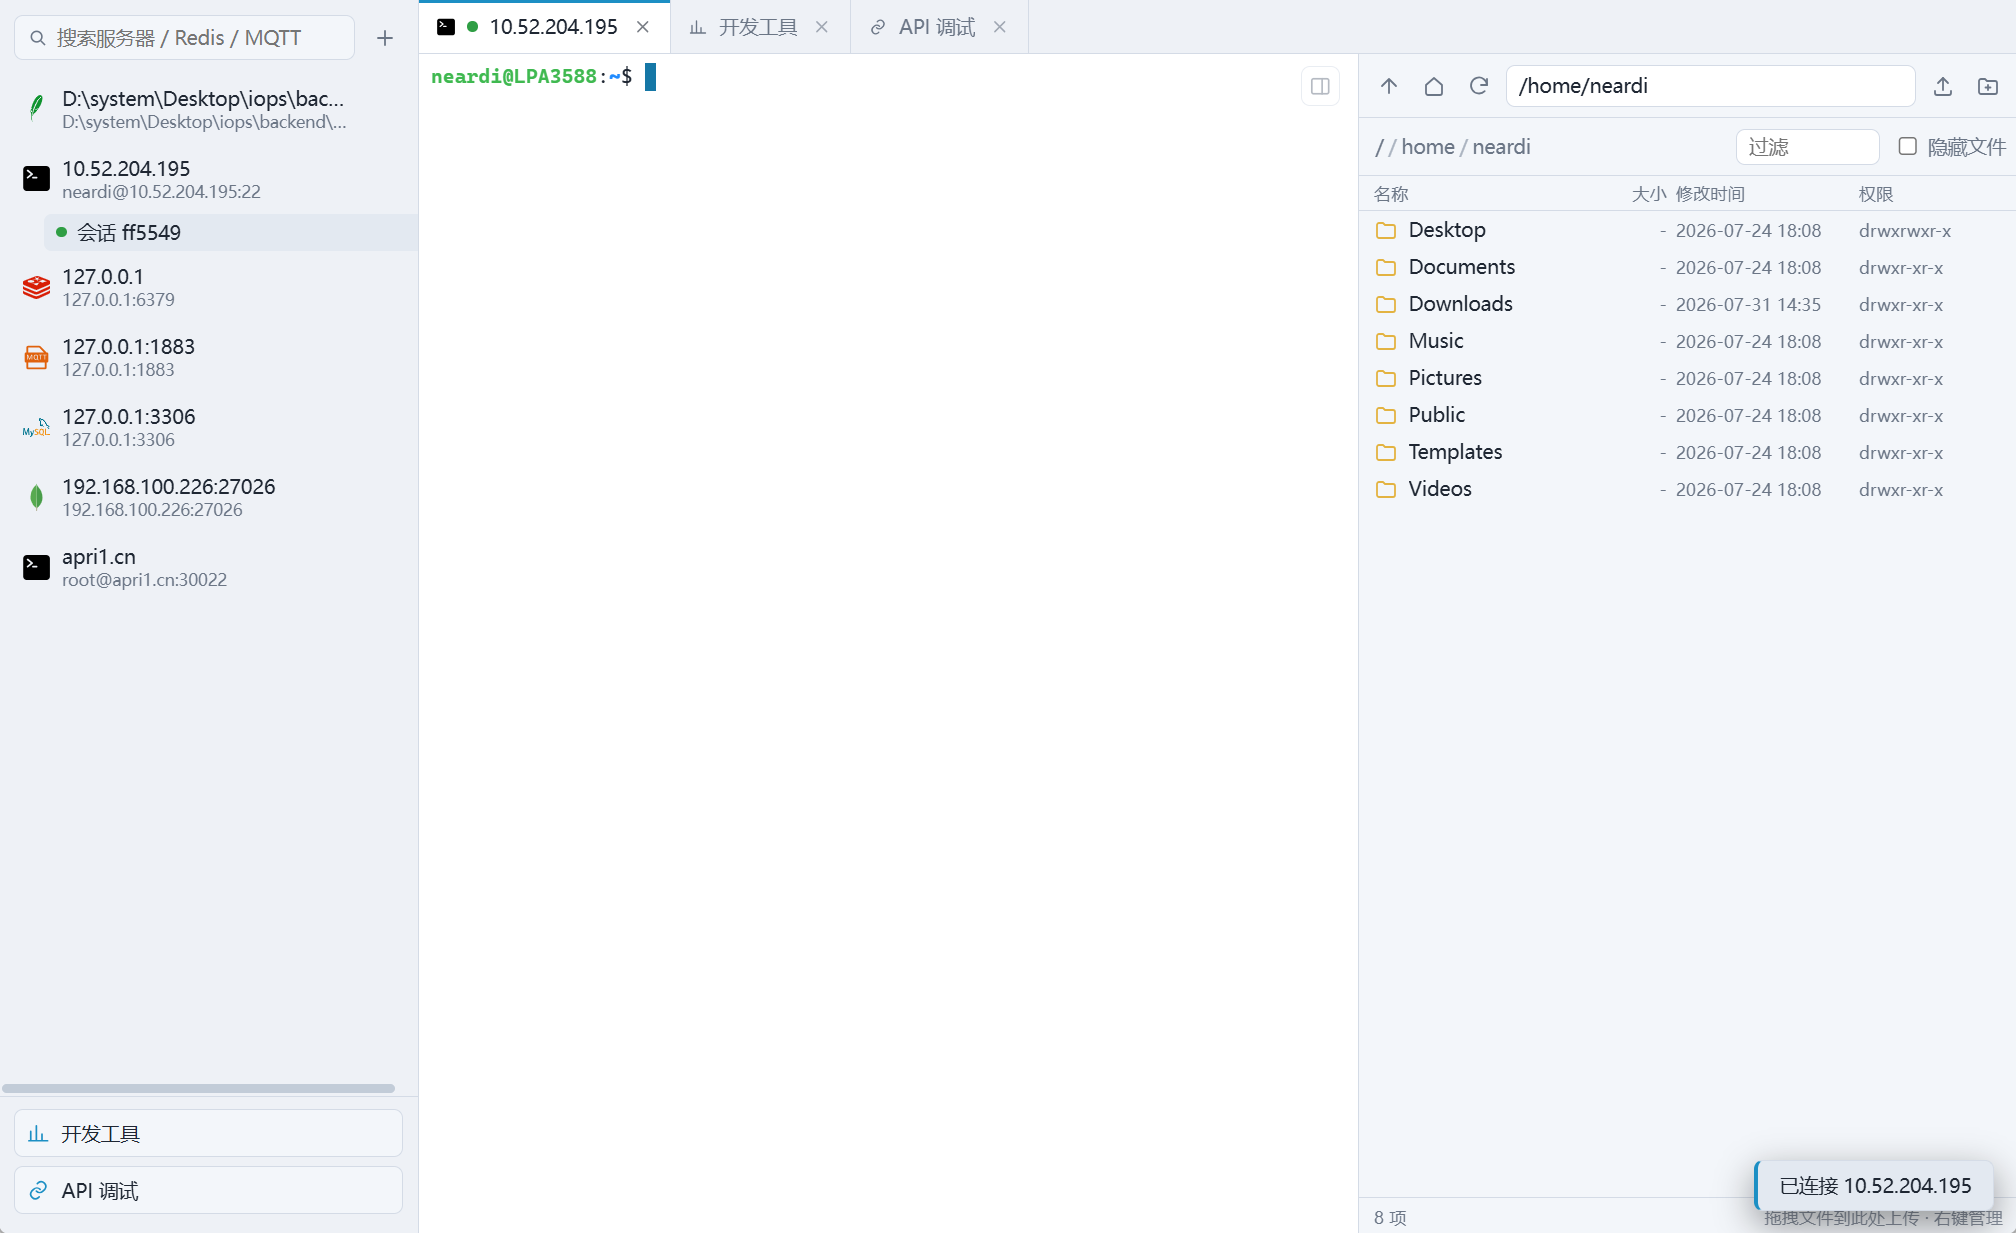
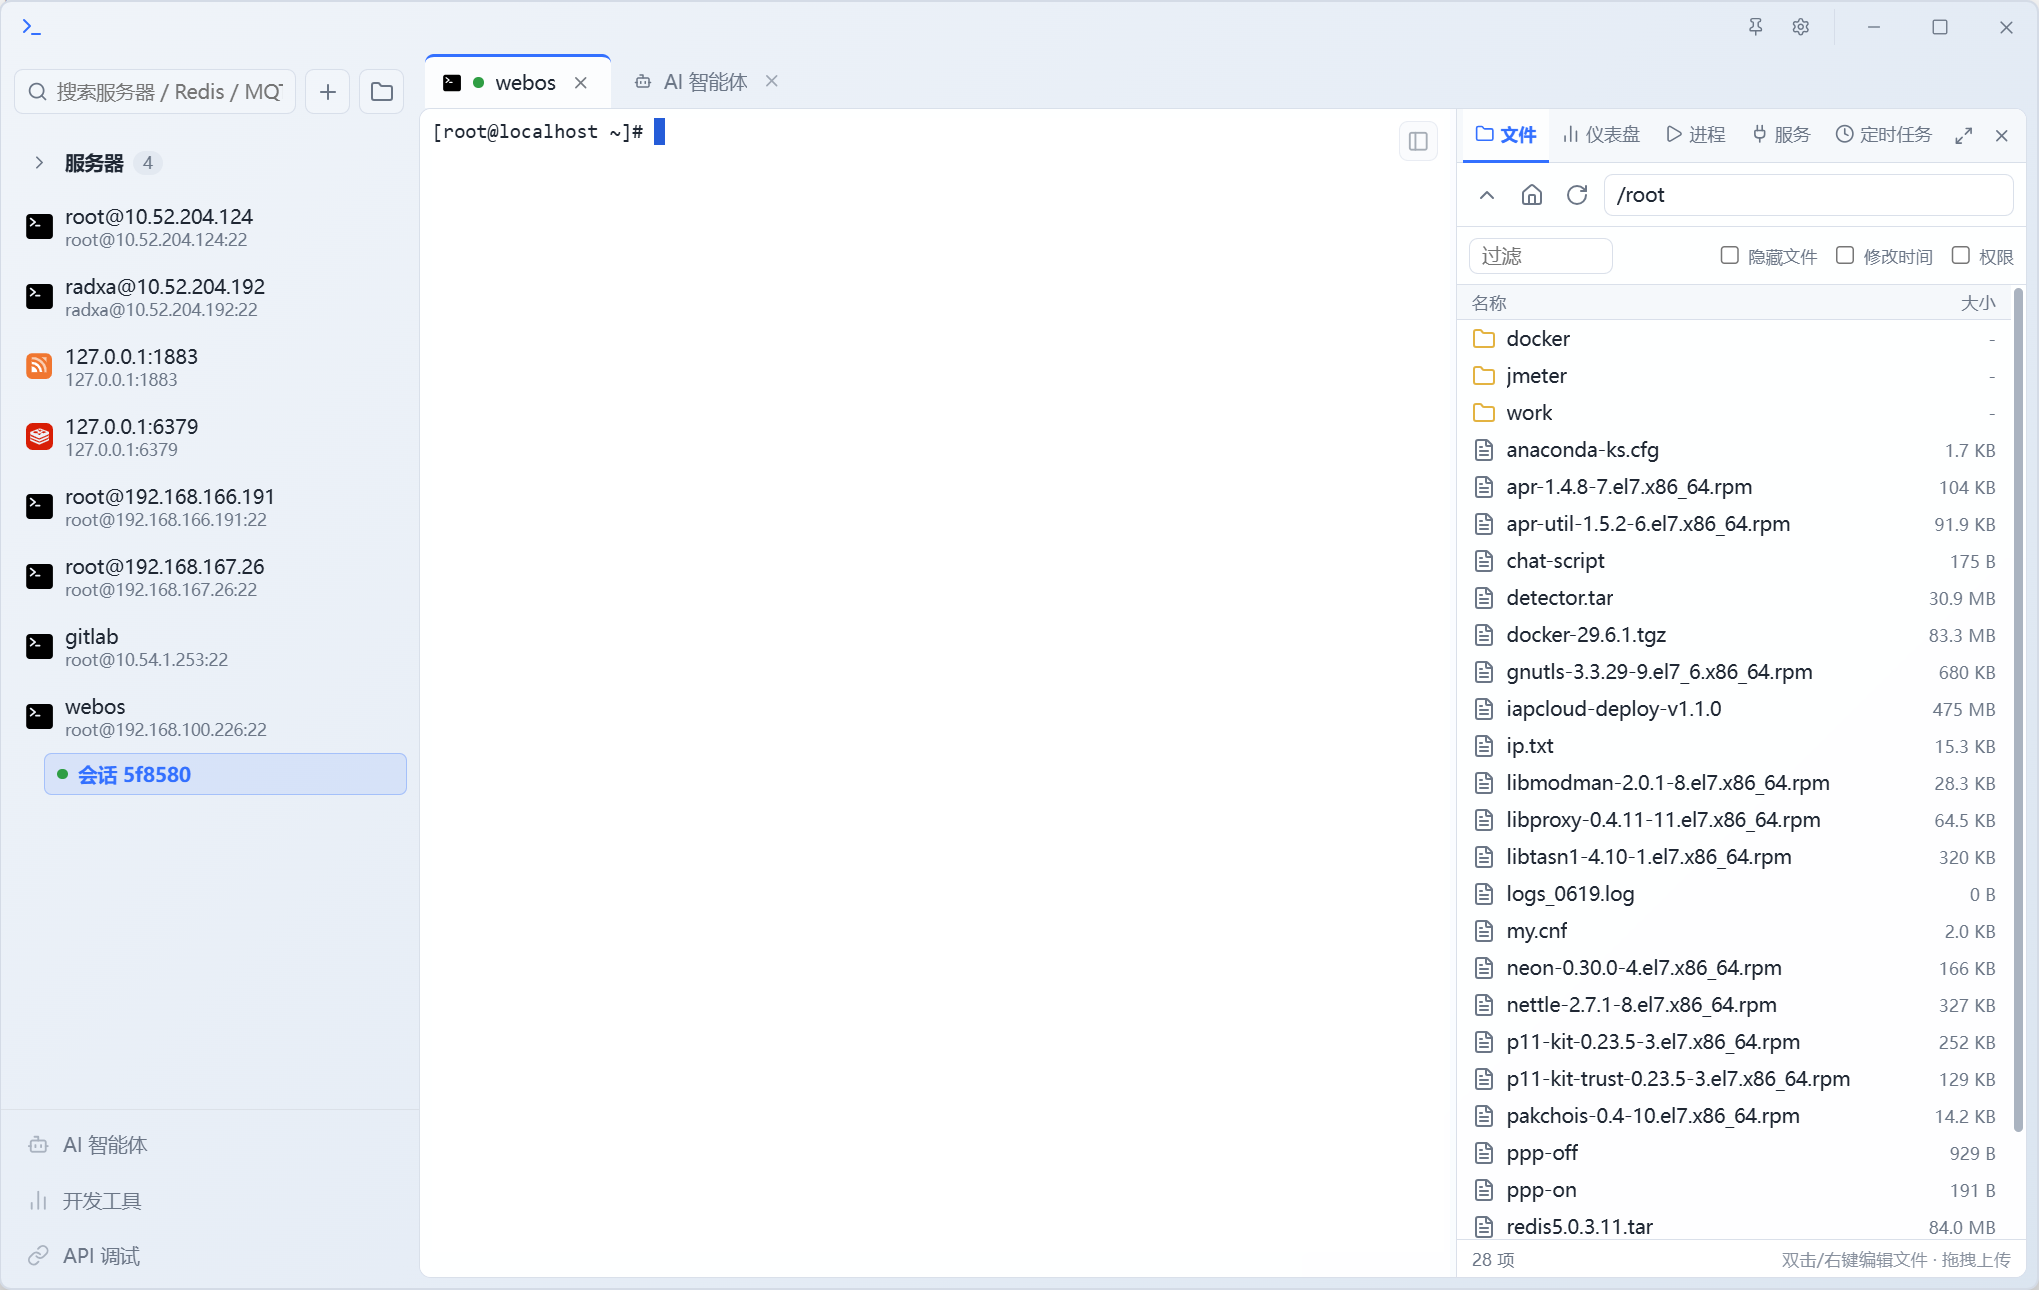
docs: update README with MySQL preview image and AI agent feature architecture

diff --git a/frontend/src/pages/setting/AiAgentTab.tsx b/frontend/src/pages/setting/AiAgentTab.tsx
@@ -174,7 +174,7 @@ export default function AiAgentTab({
 
                 <div className={s.toggleRow}>
                     <div className={s.toggleInfo}>
-                        <span className={s.toggleTitle}>开启联网搜索 (Web Search)</span>
+                        <span className={s.toggleTitle}>开启联网搜索</span>
                         <span className={s.toggleSub}>启用后 AI Agent 可自动调用搜索引擎获取实时网页信息与最新技术文档</span>
                     </div>
                     <label className={s.switch}>
@@ -190,7 +190,7 @@ export default function AiAgentTab({
                 <div className={s.toggleRow}>
                     <div className={s.toggleInfo}>
                         <span className={s.toggleTitle}>开启深度思考模式 (Thinking / Reasoning)</span>
-                        <span className={s.toggleSub}>启用后在 ExtraFields 中透传 {`{"thinking": {"type": "enabled"}}`}（适用于 Claude / DeepSeek R1 / 硅基流动等）</span>
+                        <span className={s.toggleSub}>控制思考模式与非思考模式的转换</span>
                     </div>
                     <label className={s.switch}>
                         <input
@@ -202,19 +202,21 @@ export default function AiAgentTab({
                     </label>
                 </div>
 
-                <div className={s.formGroup} style={{ marginTop: 2 }}>
-                    <label className={s.label}>思考深度等级 (reasoning_effort)</label>
+                <div className={s.toggleRow}>
+                    <div className={s.toggleInfo}>
+                        <span className={s.toggleTitle}>思考深度等级</span>
+                        <span className={s.toggleSub}>控制模型的推理强度</span>
+                    </div>
                     <select
                         className={s.select}
                         value={aiReasoningEffort}
                         onChange={(e) => onChange({ aiReasoningEffort: e.target.value as 'none' | 'low' | 'medium' | 'high' })}
                     >
                         <option value="none">未指定 / 关闭 (none)</option>
-                        <option value="low">低 (low) - 速度最快，消耗 Token 较少</option>
-                        <option value="medium">中 (medium) - 平衡思考深度与推理速度</option>
-                        <option value="high">高 (high) - 极深逻辑推演，适合复杂运维决策</option>
+                        <option value="low">低 (low)</option>
+                        <option value="medium">中 (medium)</option>
+                        <option value="high">高 (high)</option>
                     </select>
-                    <div className={s.helpText}>向 API 独立发送 reasoning_effort 参数（适用于 OpenAI o1/o3-mini / DeepSeek 等）</div>
                 </div>
             </div>
 

diff --git a/frontend/src/pages/setting/AiAgentTab.module.less b/frontend/src/pages/setting/AiAgentTab.module.less
@@ -156,6 +156,7 @@
     display: flex;
     align-items: center;
     justify-content: space-between;
+    gap: 16px;
     padding: 8px 12px;
     background: @bg-1;
     border: 1px solid @border;
@@ -165,6 +166,8 @@
         display: flex;
         flex-direction: column;
         gap: 2px;
+        flex: 1;
+        min-width: 0;
 
         .toggleTitle {
             font-size: 12.5px;
@@ -176,6 +179,13 @@
             font-size: 11px;
             color: @text-dim;
         }
+    }
+
+    .select {
+        width: 190px;
+        flex-shrink: 0;
+        background: @bg-2;
+        padding: 5px 8px;
     }
 
     .switch {

diff --git a/README.md b/README.md
@@ -1,12 +1,14 @@
 # xClient — 多协议开发运维桌面客户端
 
 基于 [Wails v2](https://wails.io) + React + TypeScript + xterm.js 的跨平台桌面客户端。
-集成了 SSH 终端、SFTP 文件管理、Redis、MySQL、MQTT 与 HTTP 接口调试等常用运维工具，
-所有连接在同一窗口内以标签 / 侧栏形式管理，互不干扰。
+集成了 SSH 终端、SFTP 文件管理、Redis、MySQL、MongoDB、SQLite、MQTT、HTTP/WebSocket 接口调试与 AI 智能运维助手，
+所有连接与工具在同一窗口内以标签 / 侧栏形式统一管理，互不干扰。
 
 ![xClient 主界面](docs/image.png)
 
 ![xClient SSH 终端](docs/image-ssh.png)
+
+![xClient MySQL 数据库客户端](docs/image-mysql.png)
 
 ## 功能清单
 
@@ -37,6 +39,10 @@
 | | 请求与响应美化 | 协议头自动补全 (`http://`)、Header / Body (JSON/Text/XML) 编辑、Basic/Bearer 鉴权，JSON 响应美化与状态码高亮 |
 | | WebSocket 调试 | 支持 WebSocket 客户端连接测试、发送文本/JSON 消息与双向实时消息日志 |
 | | 历史记录持久化 | 自动保存最近 30 条请求历史，支持单条删除与本地持久化 |
+| **AI 智能运维助手** | 智能对话与多模态感知 | 兼容 OpenAI / DeepSeek / 通义千问 / Ollama 等主流模型接口；支持图像多模态输入与实时联网搜索 |
+| | 深度思考与推理控制 | 支持深度思考模式 (Thinking / Reasoning) 开关与推理深度等级 (reasoning_effort) 灵活调节 |
+| | 工具调用与安全审计 | 自动化 Tool 分发调度（SSH 远程诊断、命令执行等）；内置全局 Tool 权限审查引擎与高危 Shell 命令动态拦截 |
+| | 会话管理与系统预设 | 支持多轮对话历史本地存储、快速重试与清除；支持自定义系统提示词 (System Prompt) 与温度参数调节 |
 | **常用开发工具集** | 快捷实用工具 | **MD5 哈希**（实时 32 位计算与一键复制）、**时间戳转换**（毫秒级刷新与日期双向转换）、**Base64 编解码**（文本编码解码） |
 | **连接与安全配置** | 敏感加密持久化 | 服务器配置与凭据本地加密存储，密码/私钥/Passphrase 采用 **AES-GCM** 高强度加密 |
 | | 配置存储路径 | Windows: `%APPDATA%/xClient`；Linux/macOS: `~/.config/xClient` |
@@ -49,6 +55,7 @@
 terminal/
 ├── main.go               // Wails 应用主入口，初始化窗口参数与系统级文件拖放
 ├── app.go                // App 核心生命周期、服务器/分组/设置配置管理
+├── app_agent.go          // 暴露给前端的 AI Agent 智能助手与会话交互接口
 ├── app_ssh.go            // 暴露给前端的 SSH 终端会话、系统运维 (Dashboard/进程/服务/Cron) 与 Docker 接口
 ├── app_sftp.go           // 暴露给前端的 SFTP 文件管理、传输队列控制与本地文件对话框
 ├── app_mysql.go          // 暴露给前端的 MySQL 核心及扩展管理接口
@@ -60,6 +67,13 @@ terminal/
 ├── core/                 // 核心基础设施与通用配置
 │   ├── config.go         // 服务器连接配置管理、读写与敏感字段 AES-GCM 加密存储
 │   └── sftp.go           // SFTP 目录/文件读写、上传下载任务队列与传输进度广播
+├── agent/                // AI 智能运维助手引擎
+│   ├── agent.go          // AI Agent 核心会话调度、模型流式通信与上下文管理
+│   ├── permission.go     // 全局 Tool 权限审查引擎与高危 Shell 命令动态拦截
+│   ├── storage.go        // 会话历史记录本地存储
+│   ├── tools.go          // 工具注册、分发与调度总线
+│   ├── tools_ssh.go      // SSH 远程运维与命令执行工具实现
+│   └── tools_websearch.go// 实时联网搜索工具实现
 ├── ssh/                  // SSH 协议与 Linux 系统运维工具
 │   ├── ssh.go            // SSH 连接建立、PTY 交互终端 Shell 与实时输出推流
 │   ├── ssh_cron.go       // Crontab 定时任务查询、解析与编辑
@@ -110,6 +124,9 @@ frontend/src/
 │       ├── SessionTabs.tsx// 已连接多协议会话顶栏标签页
 │       └── Stage.tsx      // 主内容舞台组件，根据当前 Tab 路由激活客户端
 └── pages/                // 按业务域和功能拆分的页面模块
+    ├── agent/            // AI 智能运维助手页面
+    │   ├── AiAgentPanel.tsx    // AI 对话交互、工具调用与上下文管理面板
+    │   └── AiAgentPanel.module.less// AI 面板样式
     ├── api/              // HTTP / WebSocket API 接口调试页面
     │   ├── ApiClient.tsx       // HTTP API 调试主框架
     │   ├── ApiConfigTabs.tsx   // 请求参数 / Params / Headers / Body / Auth 配置面板
@@ -160,6 +177,7 @@ frontend/src/
     ├── setting/          // 全局应用设置页面
     │   ├── SettingsModal.tsx   // 设置弹窗主框架与导航侧栏
     │   ├── AppearanceTab.tsx   // 外观与主题设置（浅/暗模式、全局界面字体）
+    │   ├── AiAgentTab.tsx      // AI 智能体设置（模型服务、思考模式、权限审查、系统提示词）
     │   └── AboutTab.tsx        // 关于应用展示（版本标识、环境信息、描述）
     ├── sqlite/           // SQLite 本地数据库管理页面
     │   └── SqliteClient.tsx    // SQLite 客户端（表/视图数据预览、结构与索引查看）
